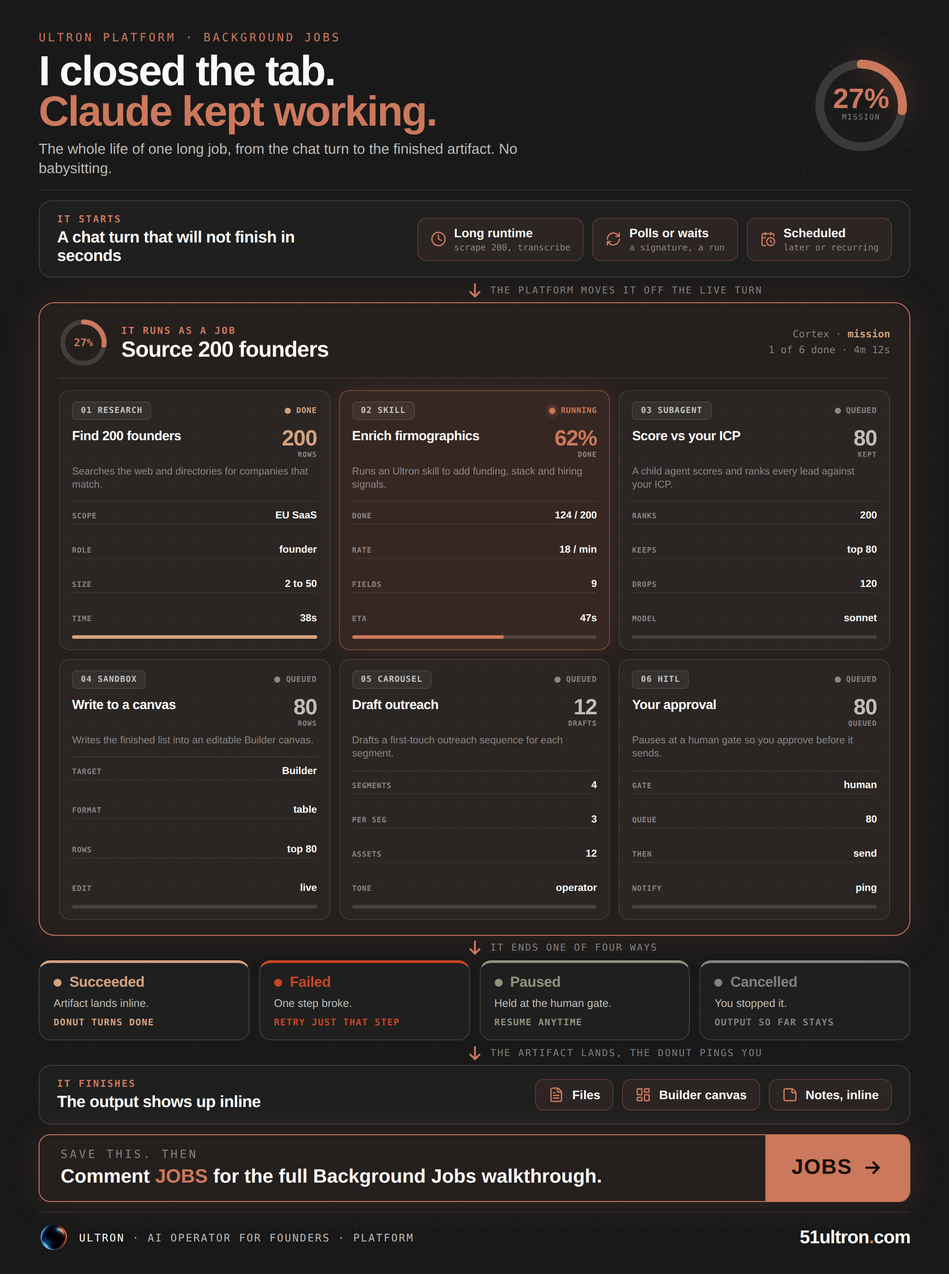
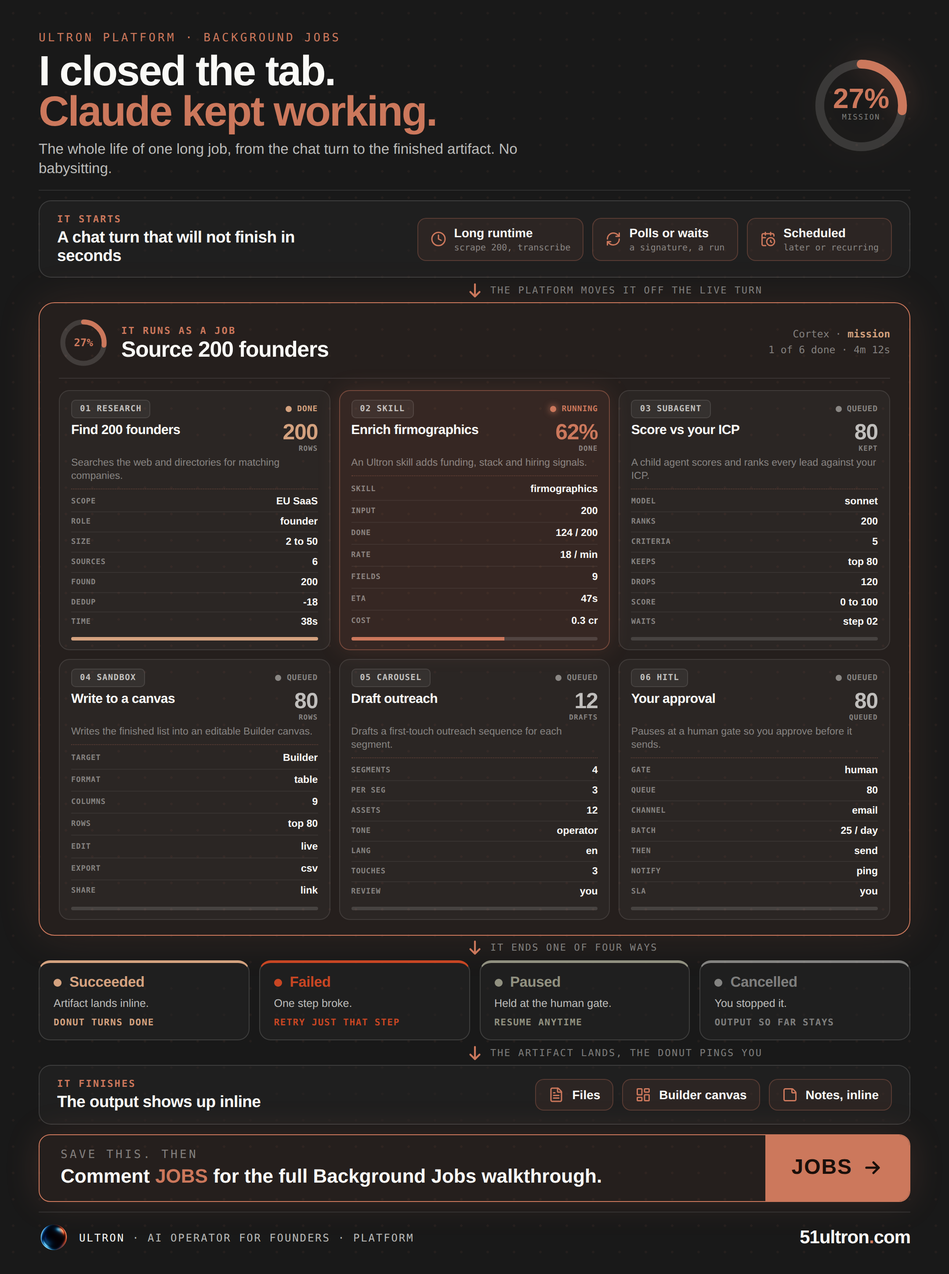
docs-05 Background Jobs: fill the focal cards to 82.5% content
Operator asked for the empty/content ratio. Measured it (getBoundingClientRect):
the cards were 47% empty (296px tall, ~160px content) because of too few data
rows for the card height. Fix: each card now carries a 7-row data table with row
dividers, each row flex:1 so the table fills the full card height, plus tighter
chrome (padding and margins). Re-measured: 17.5% empty / 82.5% content, biggest
dead band 10px (was 25px). Only the central panel changed; journey format intact.
1450px, metadata scrubbed.

https://claude.ai/code/session_018fS7xMwDiJUxoNS3zo3BKw

diff --git a/content/docs-05-jobs-linkedin-journey.html b/content/docs-05-jobs-linkedin-journey.html
@@ -38,25 +38,25 @@ body{background:#0d0d0d;display:flex;justify-content:center;padding:24px 0;font-
 .focal-h .meta{margin-left:auto;text-align:right;font-family:'DM Mono',monospace;font-size:11.5px;font-weight:500;color:var(--ink46);line-height:1.55;}
 .focal-h .meta b{color:var(--kraft);font-weight:700;}
 .fgrid{flex:1;min-height:0;display:grid;grid-template-columns:repeat(3,1fr);grid-template-rows:1fr 1fr;gap:10px;padding-top:13px;}
-.fcard{background:rgba(255,255,255,.03);border:1px solid var(--rule);border-radius:12px;padding:12px 14px;display:flex;flex-direction:column;}
+.fcard{background:rgba(255,255,255,.03);border:1px solid var(--rule);border-radius:12px;padding:10px 13px;display:flex;flex-direction:column;}
 .fcard.run{background:rgba(204,120,92,.1);border-color:rgba(204,120,92,.42);box-shadow:0 0 26px rgba(204,120,92,.16);}
-.fct{display:flex;align-items:center;justify-content:space-between;margin-bottom:8px;}
+.fct{display:flex;align-items:center;justify-content:space-between;margin-bottom:5px;}
 .fk{font-family:'DM Mono',monospace;font-size:9.5px;font-weight:600;letter-spacing:.07em;color:var(--ink70);background:rgba(250,250,247,.05);border:1px solid var(--rule);padding:4px 9px;border-radius:5px;}
 .fs{display:flex;align-items:center;gap:6px;font-family:'DM Mono',monospace;font-size:9px;font-weight:600;letter-spacing:.05em;text-transform:uppercase;}
 .fs .d{width:7px;height:7px;border-radius:50%;flex-shrink:0;}
 .fs.done{color:var(--kraft);}.fs.done .d{background:var(--kraft);}
 .fs.run{color:var(--book);}.fs.run .d{background:var(--book);box-shadow:0 0 8px var(--book);}
 .fs.q{color:var(--ink46);}.fs.q .d{background:var(--ink46);}
-.ftop{display:flex;justify-content:space-between;align-items:flex-start;margin-top:3px;gap:8px;}
+.ftop{display:flex;justify-content:space-between;align-items:flex-start;margin-top:1px;gap:8px;}
 .ftt{font-size:15px;font-weight:800;letter-spacing:-.3px;color:var(--ivory);line-height:1.06;flex:1;}
 .fnumw{text-align:right;flex-shrink:0;}
 .fnum{font-size:25px;font-weight:900;line-height:.82;letter-spacing:-.6px;}
 .funit{font-family:'DM Mono',monospace;font-size:8px;font-weight:600;letter-spacing:.08em;text-transform:uppercase;color:var(--ink46);margin-top:3px;}
-.fdesc{font-size:11.5px;font-weight:500;color:var(--ink46);line-height:1.34;margin-top:8px;}
-.fbar{height:4px;border-radius:2px;background:var(--ink14);overflow:hidden;margin-top:10px;}
+.fdesc{font-size:11.5px;font-weight:500;color:var(--ink46);line-height:1.32;margin-top:5px;}
+.fbar{height:4px;border-radius:2px;background:var(--ink14);overflow:hidden;margin-top:6px;}
 .fbar i{display:block;height:100%;}
-.fr{flex:1;margin-top:10px;display:flex;flex-direction:column;justify-content:space-between;border-top:1px dotted rgba(204,120,92,.3);padding-top:7px;}
-.fr .row{display:flex;justify-content:space-between;align-items:baseline;gap:8px;padding:3px 0;border-bottom:1px solid rgba(250,250,247,.05);}
+.fr{flex:1;margin-top:6px;display:flex;flex-direction:column;border-top:1px dotted rgba(204,120,92,.3);padding-top:3px;}
+.fr .row{flex:1;display:flex;justify-content:space-between;align-items:center;gap:8px;border-bottom:1px solid rgba(250,250,247,.06);}
 .fr .row:last-child{border-bottom:none;}
 .fr .rk{font-family:'DM Mono',monospace;font-size:8.5px;font-weight:600;letter-spacing:.06em;text-transform:uppercase;color:var(--ink46);white-space:nowrap;}
 .fr .rv{font-size:11.5px;font-weight:700;color:var(--ivory);text-align:right;}
@@ -76,4 +76,4 @@ body{background:#0d0d0d;display:flex;justify-content:center;padding:24px 0;font-
 .fl{display:flex;align-items:center;gap:12px;min-width:0;}.flogo{width:34px;height:34px;border-radius:50%;object-fit:cover;}
 .ftx{font-family:'DM Mono',monospace;font-size:12px;font-weight:400;letter-spacing:.12em;text-transform:uppercase;color:var(--ink70);}.ftx b{color:var(--ivory);font-weight:500;}
 .furl{font-weight:900;font-size:21px;letter-spacing:-.5px;color:var(--ivory);}.furl em{color:var(--book);font-style:normal;}
-</style></head><body><div class="frame" id="artifact"><div class="atm"></div><div class="hero"><div><div class="eye">Ultron Platform &middot; Background Jobs</div><div class="hook">I closed the tab.<br><em>Claude kept working.</em></div><div class="sub">The whole life of one long job, from the chat turn to the finished artifact. No babysitting.</div></div><div class="donut-w"><svg class="donut" viewBox="0 0 100 100"><circle class="trk" cx="50" cy="50" r="42"/><circle class="arc" cx="50" cy="50" r="42" stroke-dasharray="71.3 263.9"/></svg><div class="donut-c"><div class="donut-n">27%</div><div class="donut-l">Mission</div></div></div></div><div class="flow"><div class="band"><div class="bt"><div class="k">It starts</div><div class="h">A chat turn that will not finish in seconds</div></div><div class="chips"><div class="chip"><span class="ci"><svg xmlns="http://www.w3.org/2000/svg" width="1em" height="1em" viewBox="0 0 24 24"><g fill="none" stroke="#CC785C" stroke-linecap="round" stroke-linejoin="round" stroke-width="2"><circle cx="12" cy="12" r="10"/><path d="M12 6v6l4 2"/></g></svg></span><span><span class="ct">Long runtime</span><span class="cs">scrape 200, transcribe</span></span></div><div class="chip"><span class="ci"><svg xmlns="http://www.w3.org/2000/svg" width="1em" height="1em" viewBox="0 0 24 24"><g fill="none" stroke="#CC785C" stroke-linecap="round" stroke-linejoin="round" stroke-width="2"><path d="M3 12a9 9 0 0 1 9-9a9.75 9.75 0 0 1 6.74 2.74L21 8"/><path d="M21 3v5h-5m5 4a9 9 0 0 1-9 9a9.75 9.75 0 0 1-6.74-2.74L3 16"/><path d="M8 16H3v5"/></g></svg></span><span><span class="ct">Polls or waits</span><span class="cs">a signature, a run</span></span></div><div class="chip"><span class="ci"><svg xmlns="http://www.w3.org/2000/svg" width="1em" height="1em" viewBox="0 0 24 24"><g fill="none" stroke="#CC785C" stroke-linecap="round" stroke-linejoin="round" stroke-width="2"><path d="M16 14v2.2l1.6 1M16 2v4m5 1.5V6a2 2 0 0 0-2-2H5a2 2 0 0 0-2 2v14a2 2 0 0 0 2 2h3.5M3 10h5m0-8v4"/><circle cx="16" cy="16" r="6"/></g></svg></span><span><span class="ct">Scheduled</span><span class="cs">later or recurring</span></span></div></div></div><div class="arrow"><svg viewBox="0 0 24 24"><path d="M12 4v16M6 14l6 6 6-6"/></svg><span class="lbl">the platform moves it off the live turn</span></div><div class="focal"><div class="focal-h"><div class="fd"><svg viewBox="0 0 100 100"><circle class="trk" cx="50" cy="50" r="42"/><circle class="arc" cx="50" cy="50" r="42" stroke-dasharray="71 264"/></svg><span class="fdt">27%</span></div><div class="ft"><div class="k">It runs as a job</div><div class="h">Source 200 founders</div></div><div class="meta">Cortex &middot; <b>mission</b><br>1 of 6 done &middot; 4m 12s</div></div><div class="fgrid"><div class="fcard "><div class="fct"><span class="fk">01 RESEARCH</span><span class="fs done"><span class="d"></span>done</span></div><div class="ftop"><div class="ftt">Find 200 founders</div><div class="fnumw"><div class="fnum" style="color:var(--kraft)">200</div><div class="funit">ROWS</div></div></div><div class="fdesc">Searches the web and directories for companies that match.</div><div class="fr"><div class="row"><span class="rk">SCOPE</span><span class="rv">EU SaaS</span></div><div class="row"><span class="rk">ROLE</span><span class="rv">founder</span></div><div class="row"><span class="rk">SIZE</span><span class="rv">2 to 50</span></div><div class="row"><span class="rk">TIME</span><span class="rv">38s</span></div></div><div class="fbar"><i style="width:100%;background:var(--kraft)"></i></div></div><div class="fcard run"><div class="fct"><span class="fk">02 SKILL</span><span class="fs run"><span class="d"></span>running</span></div><div class="ftop"><div class="ftt">Enrich firmographics</div><div class="fnumw"><div class="fnum" style="color:var(--book)">62%</div><div class="funit">DONE</div></div></div><div class="fdesc">Runs an Ultron skill to add funding, stack and hiring signals.</div><div class="fr"><div class="row"><span class="rk">DONE</span><span class="rv">124 / 200</span></div><div class="row"><span class="rk">RATE</span><span class="rv">18 / min</span></div><div class="row"><span class="rk">FIELDS</span><span class="rv">9</span></div><div class="row"><span class="rk">ETA</span><span class="rv">47s</span></div></div><div class="fbar"><i style="width:62%;background:var(--book)"></i></div></div><div class="fcard "><div class="fct"><span class="fk">03 SUBAGENT</span><span class="fs q"><span class="d"></span>queued</span></div><div class="ftop"><div class="ftt">Score vs your ICP</div><div class="fnumw"><div class="fnum" style="color:var(--ink70)">80</div><div class="funit">KEPT</div></div></div><div class="fdesc">A child agent scores and ranks every lead against your ICP.</div><div class="fr"><div class="row"><span class="rk">RANKS</span><span class="rv">200</span></div><div class="row"><span class="rk">KEEPS</span><span class="rv">top 80</span></div><div class="row"><span class="rk">DROPS</span><span class="rv">120</span></div><div class="row"><span class="rk">MODEL</span><span class="rv">sonnet</span></div></div><div class="fbar"><i style="width:0%;background:transparent"></i></div></div><div class="fcard "><div class="fct"><span class="fk">04 SANDBOX</span><span class="fs q"><span class="d"></span>queued</span></div><div class="ftop"><div class="ftt">Write to a canvas</div><div class="fnumw"><div class="fnum" style="color:var(--ink70)">80</div><div class="funit">ROWS</div></div></div><div class="fdesc">Writes the finished list into an editable Builder canvas.</div><div class="fr"><div class="row"><span class="rk">TARGET</span><span class="rv">Builder</span></div><div class="row"><span class="rk">FORMAT</span><span class="rv">table</span></div><div class="row"><span class="rk">ROWS</span><span class="rv">top 80</span></div><div class="row"><span class="rk">EDIT</span><span class="rv">live</span></div></div><div class="fbar"><i style="width:0%;background:transparent"></i></div></div><div class="fcard "><div class="fct"><span class="fk">05 CAROUSEL</span><span class="fs q"><span class="d"></span>queued</span></div><div class="ftop"><div class="ftt">Draft outreach</div><div class="fnumw"><div class="fnum" style="color:var(--ink70)">12</div><div class="funit">DRAFTS</div></div></div><div class="fdesc">Drafts a first-touch outreach sequence for each segment.</div><div class="fr"><div class="row"><span class="rk">SEGMENTS</span><span class="rv">4</span></div><div class="row"><span class="rk">PER SEG</span><span class="rv">3</span></div><div class="row"><span class="rk">ASSETS</span><span class="rv">12</span></div><div class="row"><span class="rk">TONE</span><span class="rv">operator</span></div></div><div class="fbar"><i style="width:0%;background:transparent"></i></div></div><div class="fcard "><div class="fct"><span class="fk">06 HITL</span><span class="fs q"><span class="d"></span>queued</span></div><div class="ftop"><div class="ftt">Your approval</div><div class="fnumw"><div class="fnum" style="color:var(--ink70)">80</div><div class="funit">QUEUED</div></div></div><div class="fdesc">Pauses at a human gate so you approve before it sends.</div><div class="fr"><div class="row"><span class="rk">GATE</span><span class="rv">human</span></div><div class="row"><span class="rk">QUEUE</span><span class="rv">80</span></div><div class="row"><span class="rk">THEN</span><span class="rv">send</span></div><div class="row"><span class="rk">NOTIFY</span><span class="rv">ping</span></div></div><div class="fbar"><i style="width:0%;background:transparent"></i></div></div></div></div><div class="arrow"><svg viewBox="0 0 24 24"><path d="M12 4v16M6 14l6 6 6-6"/></svg><span class="lbl">it ends one of four ways</span></div><div class="branch"><div class="oc" style="--c:var(--kraft)"><div class="on"><span class="d"></span>Succeeded</div><div class="od">Artifact lands inline.</div><div class="ok">Donut turns done</div></div><div class="oc" style="--c:var(--book-d)"><div class="on"><span class="d"></span>Failed</div><div class="od">One step broke.</div><div class="ok">Retry just that step</div></div><div class="oc" style="--c:var(--cloud)"><div class="on"><span class="d"></span>Paused</div><div class="od">Held at the human gate.</div><div class="ok">Resume anytime</div></div><div class="oc" style="--c:var(--ink46)"><div class="on"><span class="d"></span>Cancelled</div><div class="od">You stopped it.</div><div class="ok">Output so far stays</div></div></div><div class="arrow"><svg viewBox="0 0 24 24"><path d="M12 4v16M6 14l6 6 6-6"/></svg><span class="lbl">the artifact lands, the donut pings you</span></div><div class="band"><div class="bt"><div class="k">It finishes</div><div class="h">The output shows up inline</div></div><div class="chips"><div class="chip"><span class="ci"><svg xmlns="http://www.w3.org/2000/svg" width="1em" height="1em" viewBox="0 0 24 24"><g fill="none" stroke="#CC785C" stroke-linecap="round" stroke-linejoin="round" stroke-width="2"><path d="M6 22a2 2 0 0 1-2-2V4a2 2 0 0 1 2-2h8a2.4 2.4 0 0 1 1.704.706l3.588 3.588A2.4 2.4 0 0 1 20 8v12a2 2 0 0 1-2 2z"/><path d="M14 2v5a1 1 0 0 0 1 1h5M10 9H8m8 4H8m8 4H8"/></g></svg></span><span class="ct">Files</span></div><div class="chip"><span class="ci"><svg xmlns="http://www.w3.org/2000/svg" width="1em" height="1em" viewBox="0 0 24 24"><g fill="none" stroke="#CC785C" stroke-linecap="round" stroke-linejoin="round" stroke-width="2"><rect width="7" height="9" x="3" y="3" rx="1"/><rect width="7" height="5" x="14" y="3" rx="1"/><rect width="7" height="9" x="14" y="12" rx="1"/><rect width="7" height="5" x="3" y="16" rx="1"/></g></svg></span><span class="ct">Builder canvas</span></div><div class="chip"><span class="ci"><svg xmlns="http://www.w3.org/2000/svg" width="1em" height="1em" viewBox="0 0 24 24"><g fill="none" stroke="#CC785C" stroke-linecap="round" stroke-linejoin="round" stroke-width="2"><path d="M21 9a2.4 2.4 0 0 0-.706-1.706l-3.588-3.588A2.4 2.4 0 0 0 15 3H5a2 2 0 0 0-2 2v14a2 2 0 0 0 2 2h14a2 2 0 0 0 2-2z"/><path d="M15 3v5a1 1 0 0 0 1 1h5"/></g></svg></span><span class="ct">Notes, inline</span></div></div></div></div><div class="cta"><div class="cta-l"><div class="cta-k">Save this. Then</div><div class="cta-t">Comment <b>JOBS</b> for the full Background Jobs walkthrough.</div></div><div class="cta-chip">JOBS <svg viewBox="0 0 24 24"><path d="M5 12h14M13 6l6 6-6 6"/></svg></div></div><div class="ftr"><div class="fl"><img class="flogo" src="__LOGO_URI__" alt="Ultron"><div class="ftx"><b>ULTRON</b> &middot; AI OPERATOR FOR FOUNDERS &middot; PLATFORM</div></div><div class="furl">51ultron<em>.</em>com</div></div></div></body></html>
+</style></head><body><div class="frame" id="artifact"><div class="atm"></div><div class="hero"><div><div class="eye">Ultron Platform &middot; Background Jobs</div><div class="hook">I closed the tab.<br><em>Claude kept working.</em></div><div class="sub">The whole life of one long job, from the chat turn to the finished artifact. No babysitting.</div></div><div class="donut-w"><svg class="donut" viewBox="0 0 100 100"><circle class="trk" cx="50" cy="50" r="42"/><circle class="arc" cx="50" cy="50" r="42" stroke-dasharray="71.3 263.9"/></svg><div class="donut-c"><div class="donut-n">27%</div><div class="donut-l">Mission</div></div></div></div><div class="flow"><div class="band"><div class="bt"><div class="k">It starts</div><div class="h">A chat turn that will not finish in seconds</div></div><div class="chips"><div class="chip"><span class="ci"><svg xmlns="http://www.w3.org/2000/svg" width="1em" height="1em" viewBox="0 0 24 24"><g fill="none" stroke="#CC785C" stroke-linecap="round" stroke-linejoin="round" stroke-width="2"><circle cx="12" cy="12" r="10"/><path d="M12 6v6l4 2"/></g></svg></span><span><span class="ct">Long runtime</span><span class="cs">scrape 200, transcribe</span></span></div><div class="chip"><span class="ci"><svg xmlns="http://www.w3.org/2000/svg" width="1em" height="1em" viewBox="0 0 24 24"><g fill="none" stroke="#CC785C" stroke-linecap="round" stroke-linejoin="round" stroke-width="2"><path d="M3 12a9 9 0 0 1 9-9a9.75 9.75 0 0 1 6.74 2.74L21 8"/><path d="M21 3v5h-5m5 4a9 9 0 0 1-9 9a9.75 9.75 0 0 1-6.74-2.74L3 16"/><path d="M8 16H3v5"/></g></svg></span><span><span class="ct">Polls or waits</span><span class="cs">a signature, a run</span></span></div><div class="chip"><span class="ci"><svg xmlns="http://www.w3.org/2000/svg" width="1em" height="1em" viewBox="0 0 24 24"><g fill="none" stroke="#CC785C" stroke-linecap="round" stroke-linejoin="round" stroke-width="2"><path d="M16 14v2.2l1.6 1M16 2v4m5 1.5V6a2 2 0 0 0-2-2H5a2 2 0 0 0-2 2v14a2 2 0 0 0 2 2h3.5M3 10h5m0-8v4"/><circle cx="16" cy="16" r="6"/></g></svg></span><span><span class="ct">Scheduled</span><span class="cs">later or recurring</span></span></div></div></div><div class="arrow"><svg viewBox="0 0 24 24"><path d="M12 4v16M6 14l6 6 6-6"/></svg><span class="lbl">the platform moves it off the live turn</span></div><div class="focal"><div class="focal-h"><div class="fd"><svg viewBox="0 0 100 100"><circle class="trk" cx="50" cy="50" r="42"/><circle class="arc" cx="50" cy="50" r="42" stroke-dasharray="71 264"/></svg><span class="fdt">27%</span></div><div class="ft"><div class="k">It runs as a job</div><div class="h">Source 200 founders</div></div><div class="meta">Cortex &middot; <b>mission</b><br>1 of 6 done &middot; 4m 12s</div></div><div class="fgrid"><div class="fcard "><div class="fct"><span class="fk">01 RESEARCH</span><span class="fs done"><span class="d"></span>done</span></div><div class="ftop"><div class="ftt">Find 200 founders</div><div class="fnumw"><div class="fnum" style="color:var(--kraft)">200</div><div class="funit">ROWS</div></div></div><div class="fdesc">Searches the web and directories for matching companies.</div><div class="fr"><div class="row"><span class="rk">SCOPE</span><span class="rv">EU SaaS</span></div><div class="row"><span class="rk">ROLE</span><span class="rv">founder</span></div><div class="row"><span class="rk">SIZE</span><span class="rv">2 to 50</span></div><div class="row"><span class="rk">SOURCES</span><span class="rv">6</span></div><div class="row"><span class="rk">FOUND</span><span class="rv">200</span></div><div class="row"><span class="rk">DEDUP</span><span class="rv">-18</span></div><div class="row"><span class="rk">TIME</span><span class="rv">38s</span></div></div><div class="fbar"><i style="width:100%;background:var(--kraft)"></i></div></div><div class="fcard run"><div class="fct"><span class="fk">02 SKILL</span><span class="fs run"><span class="d"></span>running</span></div><div class="ftop"><div class="ftt">Enrich firmographics</div><div class="fnumw"><div class="fnum" style="color:var(--book)">62%</div><div class="funit">DONE</div></div></div><div class="fdesc">An Ultron skill adds funding, stack and hiring signals.</div><div class="fr"><div class="row"><span class="rk">SKILL</span><span class="rv">firmographics</span></div><div class="row"><span class="rk">INPUT</span><span class="rv">200</span></div><div class="row"><span class="rk">DONE</span><span class="rv">124 / 200</span></div><div class="row"><span class="rk">RATE</span><span class="rv">18 / min</span></div><div class="row"><span class="rk">FIELDS</span><span class="rv">9</span></div><div class="row"><span class="rk">ETA</span><span class="rv">47s</span></div><div class="row"><span class="rk">COST</span><span class="rv">0.3 cr</span></div></div><div class="fbar"><i style="width:62%;background:var(--book)"></i></div></div><div class="fcard "><div class="fct"><span class="fk">03 SUBAGENT</span><span class="fs q"><span class="d"></span>queued</span></div><div class="ftop"><div class="ftt">Score vs your ICP</div><div class="fnumw"><div class="fnum" style="color:var(--ink70)">80</div><div class="funit">KEPT</div></div></div><div class="fdesc">A child agent scores and ranks every lead against your ICP.</div><div class="fr"><div class="row"><span class="rk">MODEL</span><span class="rv">sonnet</span></div><div class="row"><span class="rk">RANKS</span><span class="rv">200</span></div><div class="row"><span class="rk">CRITERIA</span><span class="rv">5</span></div><div class="row"><span class="rk">KEEPS</span><span class="rv">top 80</span></div><div class="row"><span class="rk">DROPS</span><span class="rv">120</span></div><div class="row"><span class="rk">SCORE</span><span class="rv">0 to 100</span></div><div class="row"><span class="rk">WAITS</span><span class="rv">step 02</span></div></div><div class="fbar"><i style="width:0%;background:transparent"></i></div></div><div class="fcard "><div class="fct"><span class="fk">04 SANDBOX</span><span class="fs q"><span class="d"></span>queued</span></div><div class="ftop"><div class="ftt">Write to a canvas</div><div class="fnumw"><div class="fnum" style="color:var(--ink70)">80</div><div class="funit">ROWS</div></div></div><div class="fdesc">Writes the finished list into an editable Builder canvas.</div><div class="fr"><div class="row"><span class="rk">TARGET</span><span class="rv">Builder</span></div><div class="row"><span class="rk">FORMAT</span><span class="rv">table</span></div><div class="row"><span class="rk">COLUMNS</span><span class="rv">9</span></div><div class="row"><span class="rk">ROWS</span><span class="rv">top 80</span></div><div class="row"><span class="rk">EDIT</span><span class="rv">live</span></div><div class="row"><span class="rk">EXPORT</span><span class="rv">csv</span></div><div class="row"><span class="rk">SHARE</span><span class="rv">link</span></div></div><div class="fbar"><i style="width:0%;background:transparent"></i></div></div><div class="fcard "><div class="fct"><span class="fk">05 CAROUSEL</span><span class="fs q"><span class="d"></span>queued</span></div><div class="ftop"><div class="ftt">Draft outreach</div><div class="fnumw"><div class="fnum" style="color:var(--ink70)">12</div><div class="funit">DRAFTS</div></div></div><div class="fdesc">Drafts a first-touch outreach sequence for each segment.</div><div class="fr"><div class="row"><span class="rk">SEGMENTS</span><span class="rv">4</span></div><div class="row"><span class="rk">PER SEG</span><span class="rv">3</span></div><div class="row"><span class="rk">ASSETS</span><span class="rv">12</span></div><div class="row"><span class="rk">TONE</span><span class="rv">operator</span></div><div class="row"><span class="rk">LANG</span><span class="rv">en</span></div><div class="row"><span class="rk">TOUCHES</span><span class="rv">3</span></div><div class="row"><span class="rk">REVIEW</span><span class="rv">you</span></div></div><div class="fbar"><i style="width:0%;background:transparent"></i></div></div><div class="fcard "><div class="fct"><span class="fk">06 HITL</span><span class="fs q"><span class="d"></span>queued</span></div><div class="ftop"><div class="ftt">Your approval</div><div class="fnumw"><div class="fnum" style="color:var(--ink70)">80</div><div class="funit">QUEUED</div></div></div><div class="fdesc">Pauses at a human gate so you approve before it sends.</div><div class="fr"><div class="row"><span class="rk">GATE</span><span class="rv">human</span></div><div class="row"><span class="rk">QUEUE</span><span class="rv">80</span></div><div class="row"><span class="rk">CHANNEL</span><span class="rv">email</span></div><div class="row"><span class="rk">BATCH</span><span class="rv">25 / day</span></div><div class="row"><span class="rk">THEN</span><span class="rv">send</span></div><div class="row"><span class="rk">NOTIFY</span><span class="rv">ping</span></div><div class="row"><span class="rk">SLA</span><span class="rv">you</span></div></div><div class="fbar"><i style="width:0%;background:transparent"></i></div></div></div></div><div class="arrow"><svg viewBox="0 0 24 24"><path d="M12 4v16M6 14l6 6 6-6"/></svg><span class="lbl">it ends one of four ways</span></div><div class="branch"><div class="oc" style="--c:var(--kraft)"><div class="on"><span class="d"></span>Succeeded</div><div class="od">Artifact lands inline.</div><div class="ok">Donut turns done</div></div><div class="oc" style="--c:var(--book-d)"><div class="on"><span class="d"></span>Failed</div><div class="od">One step broke.</div><div class="ok">Retry just that step</div></div><div class="oc" style="--c:var(--cloud)"><div class="on"><span class="d"></span>Paused</div><div class="od">Held at the human gate.</div><div class="ok">Resume anytime</div></div><div class="oc" style="--c:var(--ink46)"><div class="on"><span class="d"></span>Cancelled</div><div class="od">You stopped it.</div><div class="ok">Output so far stays</div></div></div><div class="arrow"><svg viewBox="0 0 24 24"><path d="M12 4v16M6 14l6 6 6-6"/></svg><span class="lbl">the artifact lands, the donut pings you</span></div><div class="band"><div class="bt"><div class="k">It finishes</div><div class="h">The output shows up inline</div></div><div class="chips"><div class="chip"><span class="ci"><svg xmlns="http://www.w3.org/2000/svg" width="1em" height="1em" viewBox="0 0 24 24"><g fill="none" stroke="#CC785C" stroke-linecap="round" stroke-linejoin="round" stroke-width="2"><path d="M6 22a2 2 0 0 1-2-2V4a2 2 0 0 1 2-2h8a2.4 2.4 0 0 1 1.704.706l3.588 3.588A2.4 2.4 0 0 1 20 8v12a2 2 0 0 1-2 2z"/><path d="M14 2v5a1 1 0 0 0 1 1h5M10 9H8m8 4H8m8 4H8"/></g></svg></span><span class="ct">Files</span></div><div class="chip"><span class="ci"><svg xmlns="http://www.w3.org/2000/svg" width="1em" height="1em" viewBox="0 0 24 24"><g fill="none" stroke="#CC785C" stroke-linecap="round" stroke-linejoin="round" stroke-width="2"><rect width="7" height="9" x="3" y="3" rx="1"/><rect width="7" height="5" x="14" y="3" rx="1"/><rect width="7" height="9" x="14" y="12" rx="1"/><rect width="7" height="5" x="3" y="16" rx="1"/></g></svg></span><span class="ct">Builder canvas</span></div><div class="chip"><span class="ci"><svg xmlns="http://www.w3.org/2000/svg" width="1em" height="1em" viewBox="0 0 24 24"><g fill="none" stroke="#CC785C" stroke-linecap="round" stroke-linejoin="round" stroke-width="2"><path d="M21 9a2.4 2.4 0 0 0-.706-1.706l-3.588-3.588A2.4 2.4 0 0 0 15 3H5a2 2 0 0 0-2 2v14a2 2 0 0 0 2 2h14a2 2 0 0 0 2-2z"/><path d="M15 3v5a1 1 0 0 0 1 1h5"/></g></svg></span><span class="ct">Notes, inline</span></div></div></div></div><div class="cta"><div class="cta-l"><div class="cta-k">Save this. Then</div><div class="cta-t">Comment <b>JOBS</b> for the full Background Jobs walkthrough.</div></div><div class="cta-chip">JOBS <svg viewBox="0 0 24 24"><path d="M5 12h14M13 6l6 6-6 6"/></svg></div></div><div class="ftr"><div class="fl"><img class="flogo" src="__LOGO_URI__" alt="Ultron"><div class="ftx"><b>ULTRON</b> &middot; AI OPERATOR FOR FOUNDERS &middot; PLATFORM</div></div><div class="furl">51ultron<em>.</em>com</div></div></div></body></html>
